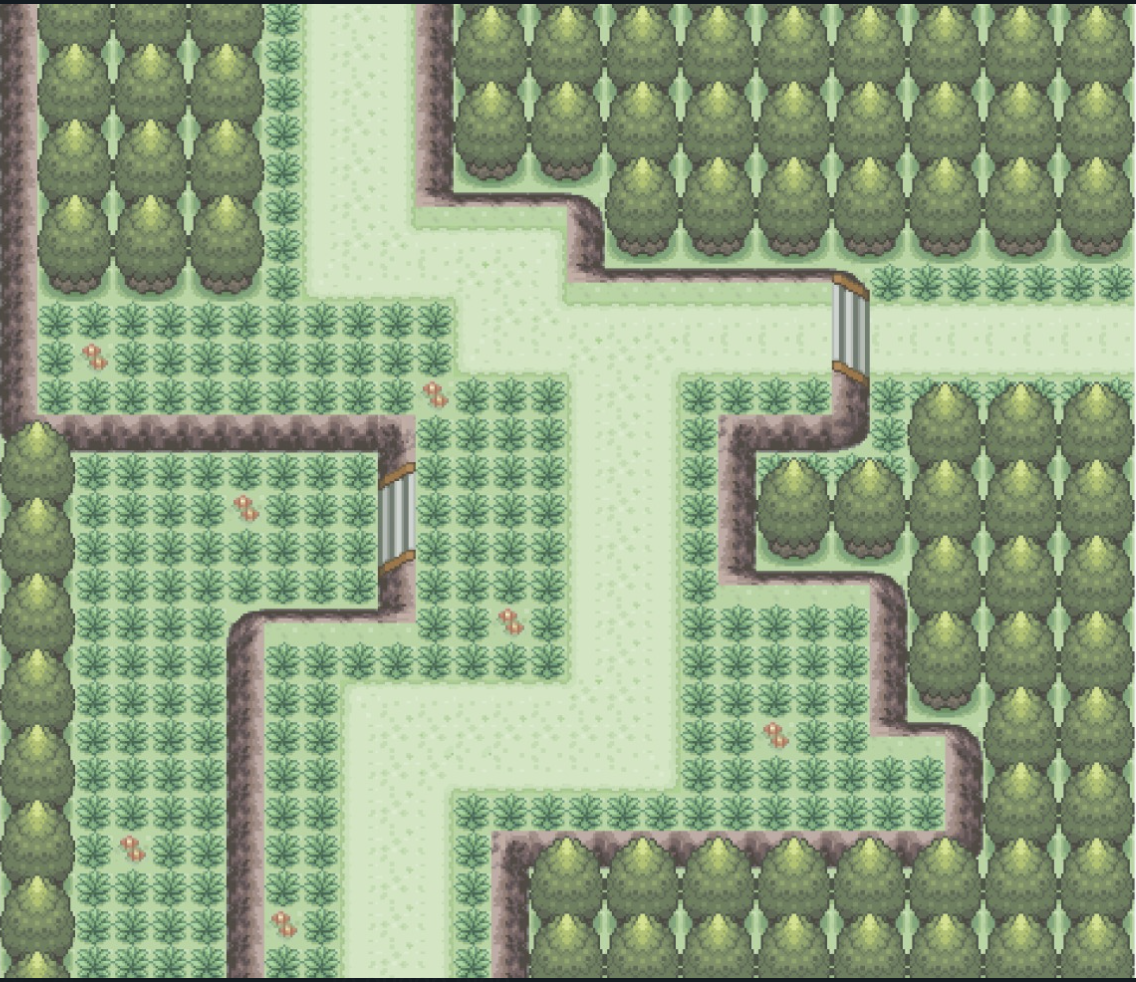
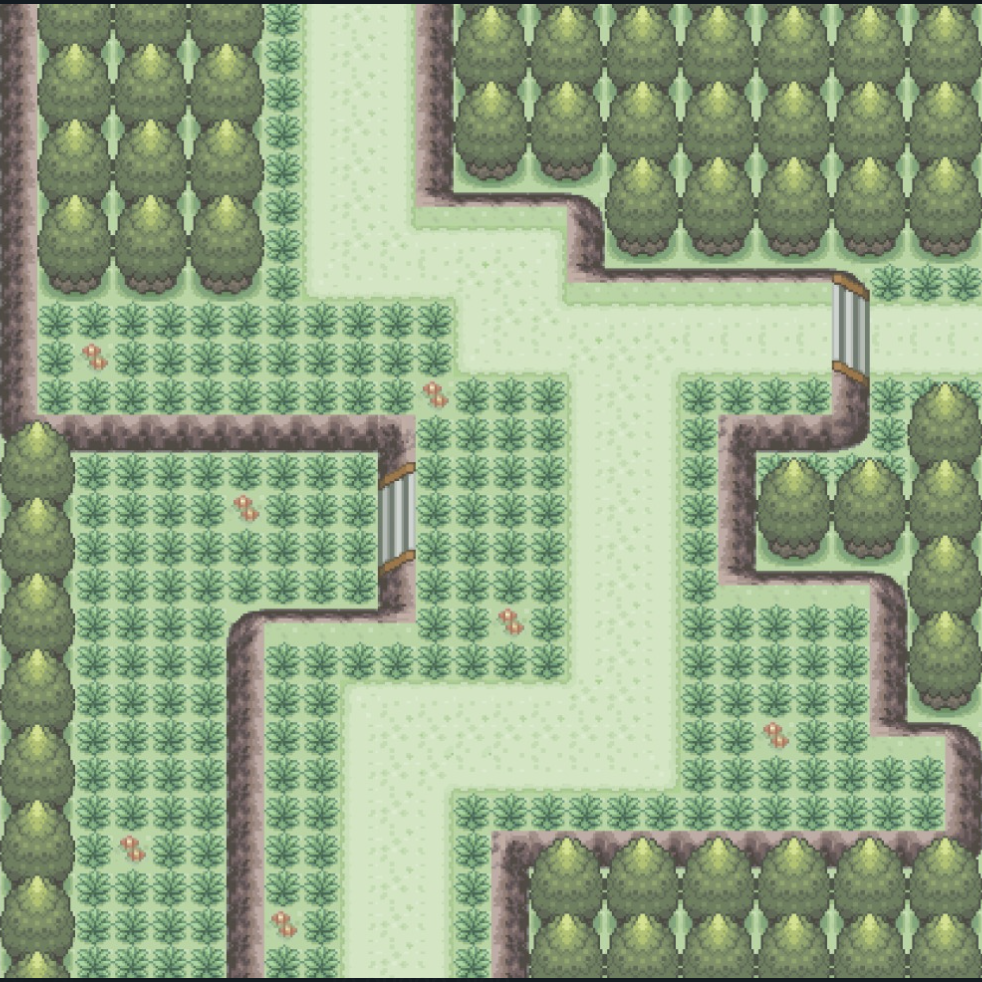
Added spawning grid

diff --git a/src/pages/Game/Game.css b/src/pages/Game/Game.css
@@ -13,16 +13,7 @@
   grid-template-columns: 10% auto 15%; /* Sidebars take equal space */
   width: 100%;
   height: 100%;
-  align-items: center;
-}
-
-.game-content {
-  width: 100%;
-  height: 100%;
-  background-image: url(../../assets/images/image.png);
-  background-size: contain;
-  background-repeat: no-repeat;
-  background-position: center;
+  align-items: stretch;
 }
 
 .game-menu-bar {
@@ -137,4 +128,24 @@ ul {
 .down {
   grid-column: 2;
   grid-row: 3;
+}
+
+.game-grid {
+  max-height: 100vh;
+  max-width: 100%;
+  width: 100%;
+  height: 100%;
+  aspect-ratio: 1;
+}
+
+.game-content {
+  max-height: 100vh;
+  aspect-ratio: 1;
+  background-image: url(../../assets/images/image.png);
+  background-size: contain;
+  background-repeat: no-repeat;
+  background-position: center;
+  display: flex;
+  justify-content: center;
+  align-items: center;
 }

diff --git a/src/pages/Game/Game.tsx b/src/pages/Game/Game.tsx
@@ -40,7 +40,9 @@ function Home() {
             <IoPower size={"full"} />
           </button>
         </aside>
-        <main className="game-content"></main>
+        <main className="game-content">
+          <div className="game-grid"></div>
+        </main>
         <aside className="game-buttons-bar">
           <div className="game-controls-buttons-div">
             <button className="game-controls-button">Combatir</button>
